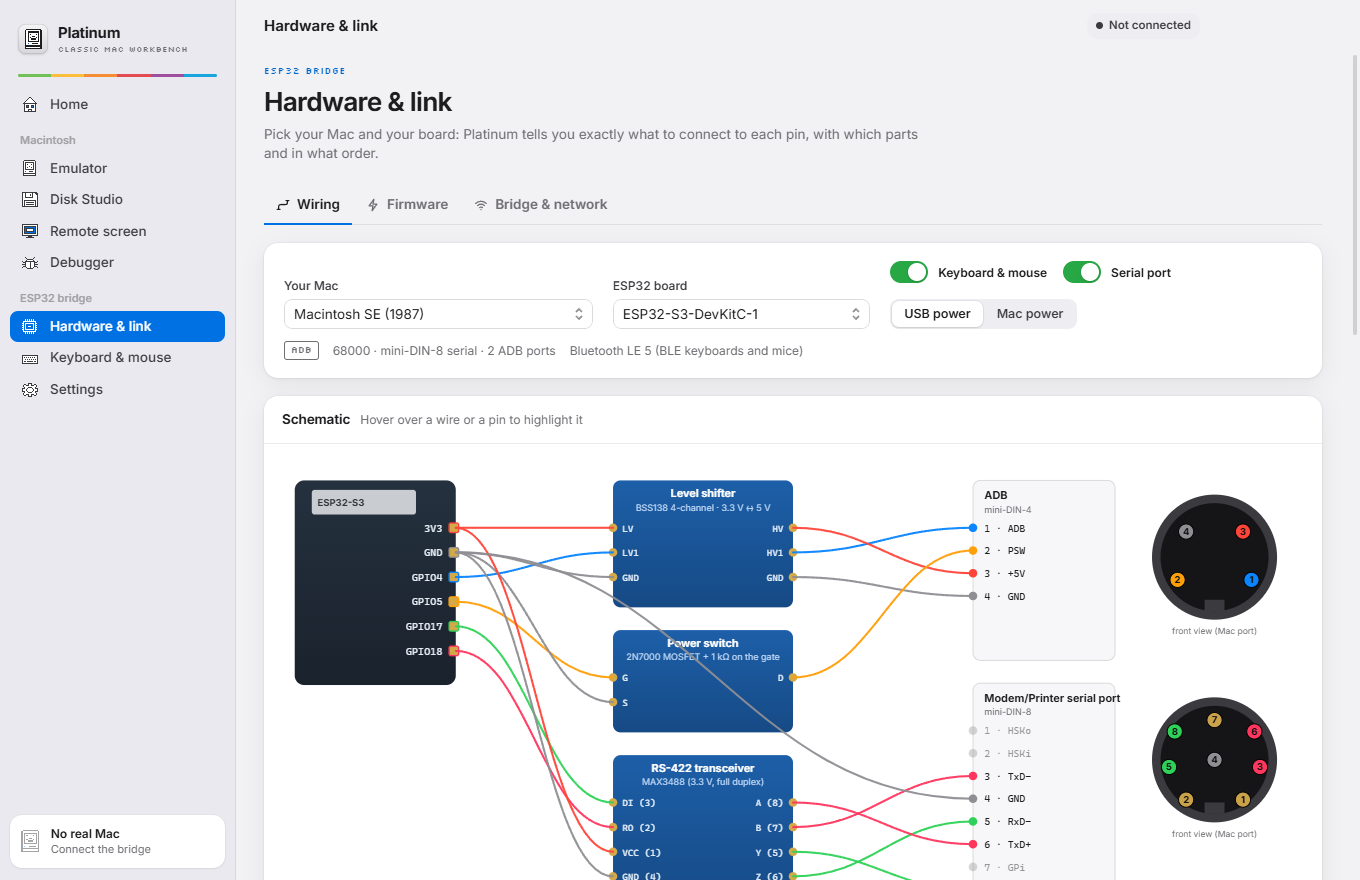
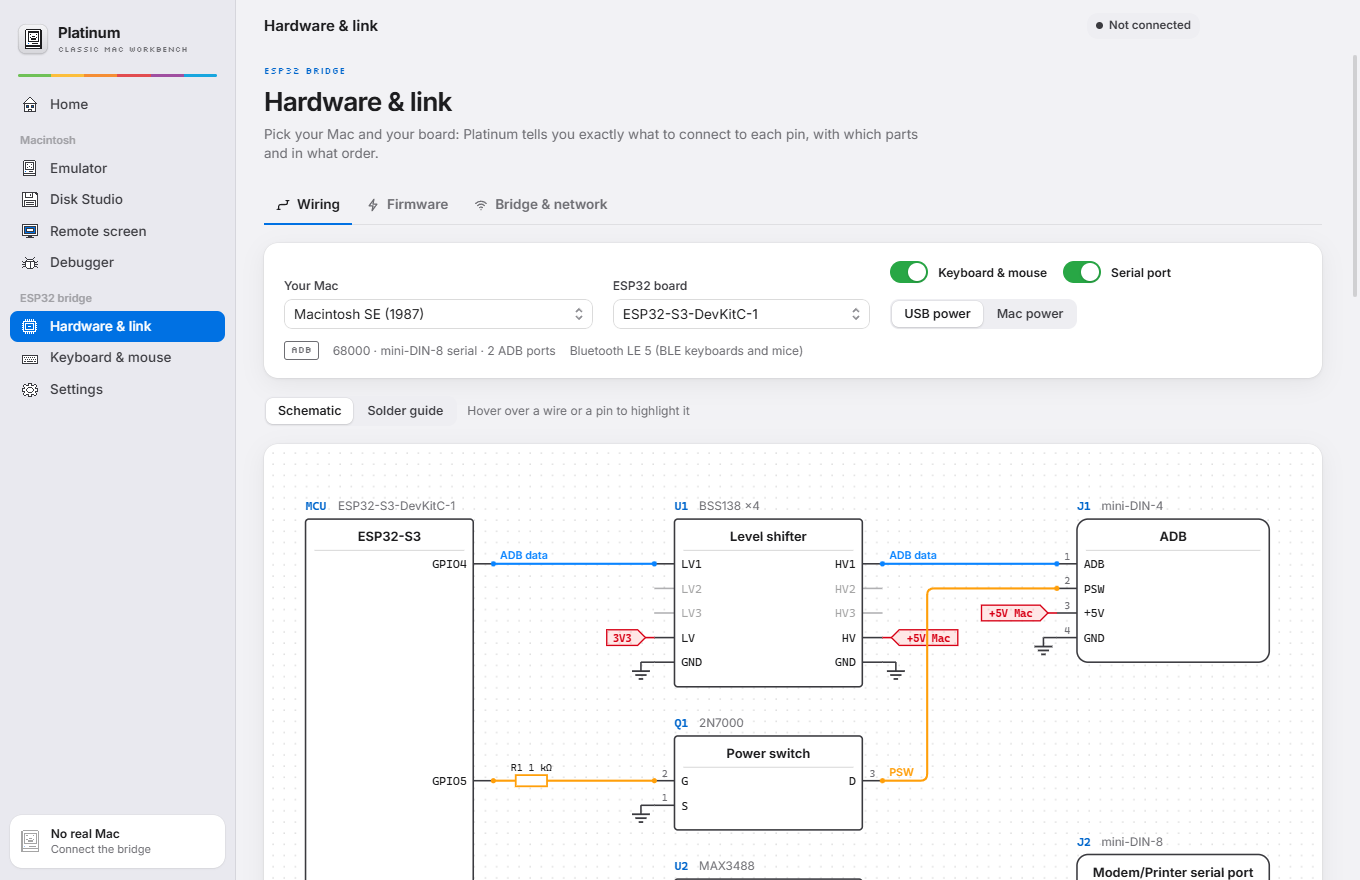
Docs: new README and screenshots
Rewritten README with a feature tour, quick start, supported boards and
Macs, flashing, the OLED status screen and a developer guide. Refreshed
app screenshots, and Retro68 in the third-party notices. Local editor settings are ignored.

diff --git a/README.md b/README.md
@@ -11,25 +11,62 @@
   <a href="https://github.com/Marcm2003/platinum/actions/workflows/ci.yml"><img alt="CI" src="https://github.com/Marcm2003/platinum/actions/workflows/ci.yml/badge.svg"></a>
   <a href="LICENSE"><img alt="Licence: GPL-3.0-or-later" src="https://img.shields.io/badge/licence-GPL--3.0--or--later-blue"></a>
   <img alt="Windows, macOS and Linux" src="https://img.shields.io/badge/platforms-Windows%20%C2%B7%20macOS%20%C2%B7%20Linux-lightgrey">
+  <img alt="English and Catalan" src="https://img.shields.io/badge/languages-English%20%C2%B7%20Catal%C3%A0-lightgrey">
 </p>
 
 <p align="center">
   <img src="docs/images/emulator-boot.gif" width="640" alt="System 7.5.3 booting inside Platinum's embedded emulator">
 </p>
 
-Platinum is a desktop app for people who love the Macs of 1984–2001. It puts everything you need in one window: an emulator for every System release, a disk tool that speaks HFS, and a step-by-step guide to building an inexpensive ESP32 bridge that gives your real Mac a Bluetooth keyboard and mouse and a wireless serial link.
+Platinum is a desktop app for people who love the Macs of 1984–2001. One window gives you an emulator for every System release, a disk tool that speaks HFS, and everything you need to build a small ESP32 bridge for your real Mac: an interactive schematic, a solder guide, ready-made firmware and a status screen with a little Mac that tells you how things are.
 
-## What it does
+<table>
+  <tr>
+    <td width="33%" valign="top"><b>🖥 Emulate</b><br>System 1.0 to Mac OS 9.2.2 in the app, or launch Mini vMac, Basilisk II, SheepShaver and QEMU.</td>
+    <td width="33%" valign="top"><b>💾 Move files</b><br>Open, create and edit HFS disk images; drag files in and boot them straight away.</td>
+    <td width="33%" valign="top"><b>🔌 Bridge real hardware</b><br>An ESP32 becomes your Mac's keyboard, mouse and wireless serial port.</td>
+  </tr>
+</table>
 
-| | |
-| --- | --- |
-| **Emulator.** Boot anything from System 1.0 to Mac OS 9.2.2 (and Mac OS X 10.1) inside the app, powered by [Infinite Mac](https://infinitemac.org). Pick the machine, screen size and scale, and insert your own disk images on the fly. Prefer native emulators? Platinum builds the command line for Mini vMac, Basilisk II, SheepShaver and QEMU. | <img src="docs/images/emulator.png" alt="The emulator page running System 7.5.3"> |
-| **Disk Studio.** Open, create and edit HFS disk images: DiskCopy 4.2 floppies, raw `.dsk`/`.img`, and partitioned hard-disk images for BlueSCSI, ZuluSCSI or emulators. Drag files in from your computer: MacBinary and BinHex are decoded, text is converted to MacRoman, and type/creator codes and resource forks are kept. Then boot the disk in the emulator with one click. | <img src="docs/images/disk-studio.png" alt="Disk Studio browsing an HFS volume"> |
-| **ESP32 bridge.** Choose your Mac and your board and Platinum draws the exact wiring, pin by pin, with a parts list and the gotchas. Flash the firmware from the app. The bridge then acts as an ADB or M0110 keyboard and mouse (type from your PC or pair Bluetooth ones) and carries the Mac's RS-422 serial port over USB, WiFi or Bluetooth. | <img src="docs/images/hardware.png" alt="The interactive wiring diagram for a Macintosh SE"> |
+## Contents
 
-Plus a **remote screen** and a **debugger** (live `PDLog()` console, memory peek/poke, build → send → run with Retro68) for when Platinum Agent runs on the real Mac — see [Status](#status).
+- [Features](#features)
+- [Download](#download)
+- [Quick start](#quick-start)
+- [The ESP32 bridge](#the-esp32-bridge)
+- [Platinum Agent for the Mac](#platinum-agent-for-the-mac)
+- [Status](#status)
+- [Building from source](#building-from-source)
+- [Contributing](#contributing)
+- [Credits and licence](#credits-and-licence)
 
-The interface is in **English** and **Catalan**, with light and dark themes.
+## Features
+
+### Emulator
+
+Boot anything from System 1.0 to Mac OS 9.2.2, plus Mac OS X 10.1, inside the app, powered by [Infinite Mac](https://infinitemac.org). Pick the machine, the screen size and the scale, and drop in your own disk images while it runs. If you'd rather use a native emulator, Platinum builds the command line for Mini vMac, Basilisk II, SheepShaver and QEMU, ROM and disks included.
+
+<p align="center"><img src="docs/images/emulator.png" width="820" alt="The emulator page running System 7.5.3"></p>
+
+### Disk Studio
+
+Open, create and edit HFS disk images: DiskCopy 4.2 floppies, raw `.dsk`/`.img` and partitioned hard-disk images for BlueSCSI, ZuluSCSI or emulators. Drag files in from your computer: MacBinary and BinHex are decoded, text is converted to MacRoman, and type/creator codes and resource forks are kept. One click boots the disk in the emulator or sends files to a real Mac.
+
+<p align="center"><img src="docs/images/disk-studio.png" width="820" alt="Disk Studio browsing an HFS volume"></p>
+
+### Hardware & link
+
+Choose your Mac and your ESP32 board and Platinum draws the build:
+
+- **Schematic**: proper part symbols with real pin numbers, wires routed so they never overlap, and power as GND / 3V3 / +5V symbols. Hover over a wire or pin to trace it.
+- **Solder guide**: every part as it looks on the bench (the BSS138 module, the MAX3488 and 74AHCT125 from above with pin 1 marked, the 2N7000's legs), and every connector from the solder side, each pad labelled with where it goes. A numbered checklist keeps track of the joints you've done.
+- **Firmware**: detects ESP32 boards as you plug them in, identifies the chip, and flashes the right image in one click.
+
+### And more
+
+- **Remote screen** and **debugger** for a real Mac running Platinum Agent: live `PDLog()` console, memory peek/poke, and build → send → run with Retro68.
+- **Keyboard & mouse**: type on the Mac from your computer, or pair Bluetooth keyboards and mice with the bridge.
+- **English and Catalan**, light and dark themes.
 
 <p align="center"><img src="docs/images/home-dark.png" width="720" alt="Platinum's home page in dark mode"></p>
 
@@ -37,13 +74,60 @@ The interface is in **English** and **Catalan**, with light and dark themes.
 
 Get the latest version from **[Releases](https://github.com/Marcm2003/platinum/releases/latest)**:
 
-| System | File | Notes |
+| System | File | First run |
 | --- | --- | --- |
-| Windows 10/11 (x64) | `Platinum-…-win-x64.exe` | The installer isn't code-signed yet, so SmartScreen may warn you: choose **More info → Run anyway**. |
-| macOS 12+ (Apple silicon and Intel) | `Platinum-…-mac-universal.dmg` | Not notarised yet. The first time, right-click the app → **Open**, or run `xattr -dr com.apple.quarantine /Applications/Platinum.app`. |
-| Linux (x64) | `Platinum-….AppImage` | `chmod +x` it and run it. For USB serial, add yourself to the `dialout` group (or `uucp` on Arch) and log in again. On Ubuntu 24.04+, if it won't start, run it with `--no-sandbox`. |
+| Windows 10/11 (x64) | `Platinum-…-win-x64.exe` | Not code-signed yet: if SmartScreen warns you, choose **More info → Run anyway**. |
+| macOS 12+ (Apple silicon and Intel) | `Platinum-…-mac-universal.dmg` | Not notarised yet: right-click the app → **Open**, or run `xattr -dr com.apple.quarantine /Applications/Platinum.app`. |
+| Linux (x64) | `Platinum-….AppImage` | `chmod +x` it and run it. For USB serial, join the `dialout` group (`uucp` on Arch) and log in again. On Ubuntu 24.04+, if it won't start, add `--no-sandbox`. |
 
-The embedded emulator needs an Internet connection the first time it loads a system.
+Each release also includes the bridge firmware for every board and `PlatinumAgent.dsk` for your Mac. The embedded emulator needs an Internet connection the first time it loads a system.
+
+## Quick start
+
+1. **Emulate.** Open **Emulator**, pick a system and press **Boot**. Drag a disk image onto the screen, or use **Insert disk**.
+2. **Make a disk.** In **Disk Studio**, create a floppy, drag your files in, and press **Try in the emulator**.
+3. **Build the bridge.** In **Hardware & link**, choose your Mac and board, follow the solder guide, plug the board in and press **Flash**.
+4. **Connect.** Click the connection pill at the top right and choose USB, WiFi or Bluetooth.
+
+## The ESP32 bridge
+
+The bridge sits between your Mac and your computer. It can be the Mac's **ADB or M0110 keyboard and mouse**, carry the Mac's **RS-422 serial port** over USB, WiFi or Bluetooth (that's how Platinum Agent talks), and **power the Mac on** from the app on ADB machines with a soft-power key.
+
+A typical ADB build is an ESP32-S3 board, a BSS138 level shifter, a MAX3488 RS-422 transceiver, a 2N7000 MOSFET and two cables (S-Video for ADB, a Mac printer cable for serial). The full guide is in **[docs/hardware.md](docs/hardware.md)**: board choice, pin maps, wiring for each Mac family, connector pinouts, parts lists and a first-power-on checklist.
+
+### Supported boards
+
+| Board | Firmware image | Notes |
+| --- | --- | --- |
+| ESP32-S3-DevKitC-1 | `platinum-bridge-esp32s3.bin` | Recommended: two cores, native USB. Optional 0.96" OLED. |
+| ESP32-DevKitC (WROOM-32) | `platinum-bridge-esp32.bin` | The most common. Optional 0.96" OLED. |
+| ESP32-C3 with 0.42" OLED | `platinum-bridge-esp32c3-oled.bin` | Tiny, with a built-in screen. Single core. |
+| ESP32-C3 SuperMini | `platinum-bridge-esp32c3.bin` | The smallest. Optional 0.96" OLED. Single core. |
+
+### Supported Macs
+
+| Family | Keyboard & mouse | Serial port |
+| --- | --- | --- |
+| Macintosh 128K, 512K | M0110 + quadrature mouse | DE-9 |
+| Macintosh Plus | M0110 + quadrature mouse | mini-DIN-8 |
+| SE, SE/30, Classic, Classic II, II family, LC, Quadra, Power Macintosh, G3 (beige) | ADB | mini-DIN-8 |
+
+### Flashing
+
+In **Hardware & link → Firmware**, Platinum lists the serial ports, highlights the ESP32 boards, reads the chip type with esptool and writes the matching image. It won't write an image meant for a different chip. Without the Arduino toolchain, flash the image from the release at offset `0x0` with [ESP Tool](https://espressif.github.io/esptool-js/) in Chrome or Edge.
+
+### Status screen
+
+Boards with an SSD1306 OLED (built into the ESP32-C3 OLED board, or a 0.96" module on the others) show the bridge's state. A little Mac in the spirit of the classic start-up icons sets the mood: a blinking question-mark disk until a Mac appears, a happy Mac when it's talking, a sleeping one when it goes quiet, a sad one with an error code when something fails, and the system-error bomb after a crash. **BOOT** cycles through the network, Bluetooth and traffic pages.
+
+<p align="center"><img src="docs/images/oled/72x40-tour.gif" width="432" alt="The OLED status screen: start-up animation, then the little Mac reacting to the bridge's state"></p>
+
+> [!WARNING]
+> Vintage Macs are irreplaceable. Check every wire with a multimeter before plugging anything in, and never connect +12 V.
+
+## Platinum Agent for the Mac
+
+Platinum Agent is a small 68k app for System 6.0.8 to Mac OS 9. Over the serial port it receives files into a “Platinum Inbox” folder, streams the screen, peeks and pokes memory, launches apps, and relays `PDLog()` messages from your own programs. Platinum puts it on a 1.44 MB floppy image in one click (**Debugger → Platinum Agent**). See [mac-agent/README.md](mac-agent/README.md) for details and the `pdebug` logging library.
 
 ## Status
 
@@ -53,53 +137,53 @@ Platinum is young (v0.1). Here's where each part stands:
 | --- | --- |
 | Embedded emulator (Infinite Mac) | ✅ Works |
 | Native emulator launcher | ✅ Works (bring your own emulator and ROM) |
-| Disk Studio (HFS read/write, MacBinary, BinHex, DiskCopy 4.2, partitioned images) | ✅ Works, cross-tested against [machfs](https://github.com/elliotnunn/machfs). MFS (System 1–2) and HFS+ aren't supported yet. |
-| ESP32 bridge firmware: ADB / M0110 keyboard and mouse, BLE HID, serial over USB/WiFi/BLE | 🧪 Feedback from real hardware very welcome |
-| Platinum Agent for the Mac (remote screen, file transfer, debugger) | 🚧 Not published yet: the [protocol](docs/protocol.md) is specified and the app side is done |
+| Disk Studio: HFS read/write, MacBinary, BinHex, DiskCopy 4.2, partitioned images | ✅ Works, cross-tested against [machfs](https://github.com/elliotnunn/machfs). MFS (System 1–2) and HFS+ aren't supported yet. |
+| Schematic, solder guide, board detection and chip identification | ✅ Works |
+| One-click flashing from the app | 🧪 Not yet run on a board |
+| Bridge firmware: ADB / M0110, BLE HID, serial over USB/WiFi/BLE, OLED screen | 🧪 Builds for all four boards; not yet tested with a real Mac, so reports are very welcome |
+| Platinum Agent | 🧪 Runs on System 7.5.3 in the emulator, protocol cross-tested with the app; [the serial link still needs testing on a real Mac](mac-agent/README.md#status) |
 
-## Build the bridge
+## Building from source
 
-Everything is in **[docs/hardware.md](docs/hardware.md)**: board choice, pin maps, wiring tables for each Mac family, connector pinouts, the parts list and a first-power-on checklist. The same information is interactive in the app under **Hardware & link**.
-
-A typical ADB build is an ESP32-S3 dev board, a BSS138 level shifter, a MAX3488 RS-422 transceiver, a 2N7000 MOSFET and two cables (S-Video for ADB, a Mac printer cable for serial).
-
-> [!WARNING]
-> Vintage Macs are irreplaceable. Check every wire with a multimeter before plugging anything in, and never connect +12 V.
-
-## Build from source
-
-You need [Node.js](https://nodejs.org) 22 or newer. The HFS tests also need Python 3 with `pip install machfs`, which they use as a reference implementation.
+You need [Node.js](https://nodejs.org) 22 or newer. The HFS tests also need Python 3 with `pip install machfs`.
 
 ```sh
 git clone https://github.com/Marcm2003/platinum.git
 cd platinum
 npm ci
-npm run dev        # app with hot reload
-npm test           # HFS tests + translation check
-npm run dist       # installer for your OS in release/
+npm run dev        # the app with hot reload
+npm test           # HFS, translation and agent-protocol checks
+npm run dist       # an installer for your OS in release/
 ```
+
+| Command | What it does |
+| --- | --- |
+| `npm run firmware [board]` | Builds the bridge firmware images into `firmware/dist/` (needs arduino-cli with the ESP32 core and the NimBLE-Arduino, WebSockets, ArduinoJson and U8g2 libraries). |
+| `npm run oled-preview` | Renders the OLED screens on your computer into `docs/images/oled/`, using the firmware's own drawing code. |
+| `npm run docs:hardware` | Regenerates `docs/hardware.md` from the wiring data. |
+| `npm run screenshots` | Retakes the README screenshots from the built app. |
+
+Platinum Agent builds with Retro68; Docker is enough, see [mac-agent/README.md](mac-agent/README.md#building).
 
 | Path | What's there |
 | --- | --- |
-| `src/` | The app (React + TypeScript). `src/lib/hfs` is a standalone HFS implementation, `src/lib/hardware` holds the wiring data, `src/lib/link` the bridge and agent protocols. |
-| `electron/` | Main process: windows, file dialogs, the local disk server for the emulator, device pickers. |
-| `firmware/platinum-bridge/` | The ESP32 Arduino sketch. |
-| `mac-agent/` | Platinum Agent for the Mac (coming soon). |
-| `docs/` | Hardware guide, protocol spec and screenshots. |
-| `scripts/` | Dev, build, test, docs and screenshot scripts. |
+| `src/` | The app (React + TypeScript). `src/lib/hfs` is a standalone HFS implementation, `src/lib/hardware` the boards and wiring data, `src/lib/link` the bridge and agent protocols. |
+| `electron/` | Main process: windows, dialogs, the disk server for the emulator, serial ports and esptool. |
+| `firmware/platinum-bridge/` | The ESP32 Arduino sketch. `firmware/tools/` has the OLED preview renderer. |
+| `mac-agent/` | Platinum Agent and the `pdebug` library, in C for Retro68. |
+| `docs/` | Hardware guide, protocol specification and images. |
+| `scripts/` | Build, test, docs, firmware, icon and preview scripts. |
 
-### Translations
-
-Strings live in the code in English, wrapped in `t("…")`, and `src/i18n/ca.ts` maps them to Catalan. `npm test` fails if a translation is missing or stale. To add a language, copy `ca.ts`, translate the values and register it in `src/i18n/index.ts`.
+Strings live in the code in English inside `t("…")`, and `src/i18n/ca.ts` holds the Catalan. `npm test` fails if a translation is missing. To add a language, copy `ca.ts`, translate it and register it in `src/i18n/index.ts`.
 
 ## Contributing
 
-Bug reports, photos of your bridge build, translations and pull requests are all welcome. See [CONTRIBUTING.md](CONTRIBUTING.md).
+Bug reports, photos of your bridge, reports from real Macs, translations and pull requests are all welcome. See [CONTRIBUTING.md](CONTRIBUTING.md).
 
 ## Credits and licence
 
 Platinum is free software under the [GNU GPL v3.0 or later](LICENSE).
 
-The embedded emulator is [Infinite Mac](https://infinitemac.org) by Mihai Parparita (Apache-2.0), which is loaded from infinitemac.org. Thank you, Mihai. The HFS catalog collation table comes from Robert Leslie's [hfsutils](https://www.mars.org/home/rob/proj/hfs/). See [THIRD_PARTY_NOTICES.md](THIRD_PARTY_NOTICES.md) for everything else.
+The embedded emulator is [Infinite Mac](https://infinitemac.org) by Mihai Parparita (Apache-2.0), loaded from infinitemac.org. Thank you, Mihai. The HFS catalog collation table comes from Robert Leslie's [hfsutils](https://www.mars.org/home/rob/proj/hfs/). Platinum Agent is built with [Retro68](https://github.com/autc04/Retro68). See [THIRD_PARTY_NOTICES.md](THIRD_PARTY_NOTICES.md) for everything else.
 
 Platinum doesn't include any Apple ROM or system software. Apple, Macintosh, Mac and Mac OS are trademarks of Apple Inc. Platinum isn't affiliated with or endorsed by Apple.

diff --git a/THIRD_PARTY_NOTICES.md b/THIRD_PARTY_NOTICES.md
@@ -25,6 +25,12 @@ Platinum is licensed under the GNU General Public License v3.0 or later (see `LI
 | [Infinite Mac](https://infinitemac.org) by Mihai Parparita | Apache-2.0 | The embedded emulator is loaded from infinitemac.org inside the app. Its emulator cores (Mini vMac, Basilisk II, SheepShaver, DingusPPC and others) are under their own licences. |
 | Mini vMac, Basilisk II, SheepShaver, QEMU | GPL-2.0 and others | Native emulators you download and point Platinum at. Not included. |
 
+## Platinum Agent (68k)
+
+| Component | Licence |
+| --- | --- |
+| [Retro68](https://github.com/autc04/Retro68) toolchain and runtime (GCC, newlib, Multiversal interfaces) | GPL-3.0 with the GCC Runtime Library Exception; newlib and Multiversal under their own permissive licences |
+
 ## Firmware libraries (built by you with arduino-cli)
 
 | Component | Licence |
